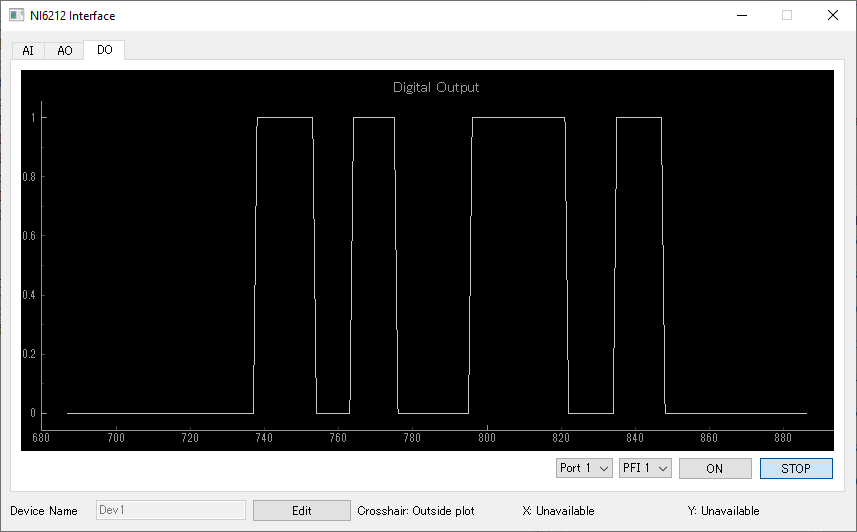
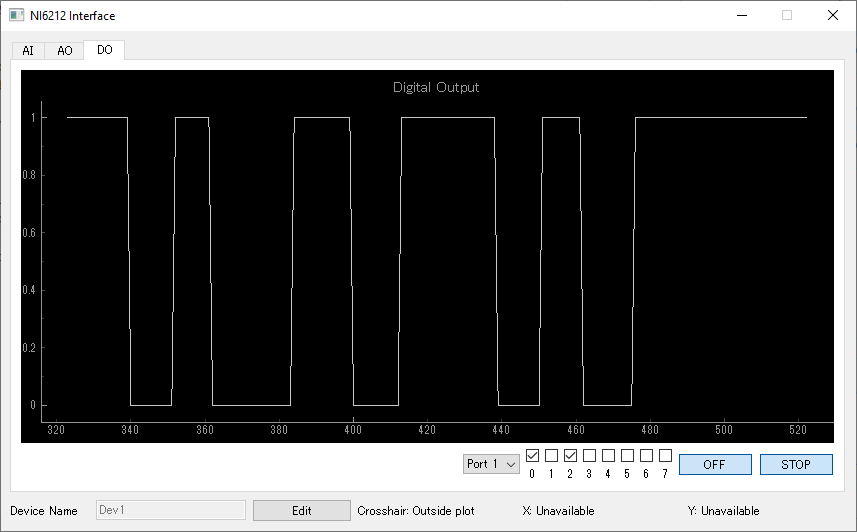
update: update README.md

Changed region(s): [[0.0303, 0.7519, 0.9708, 0.9023], [0.3944, 0.2105, 0.4247, 0.2406]]

diff --git a/README.md b/README.md
@@ -25,7 +25,7 @@ $ python App.py
 
 ## Description
 
-There are three tabs on the application: "Analog Input," "Analog Output," and "Digital Output.
+There are three tabs on the application: "Analog Input," "Analog Output," and "Digital Output".
 
 ![image](https://github.com/OIST-EQuIP/NI6212_interface/blob/main/img/AI.PNG)
 
@@ -39,8 +39,8 @@ Specifiable Output values are from -10 to 10.
 
 ![image](https://github.com/OIST-EQuIP/NI6212_interface/blob/main/img/DO.PNG)
 
-Under "Digital Output," the voltage flows to the channel selected in the drop-down list.
-Press the "START" button to start measurement, and press the "ON" button to output the signal. Press the "OFF" button to stop outputting the signal.
+In "Digital Output", voltage flows to the channel selected by the check box.
+Press the "START" button to start measurement, and press the "ON" button to output the signal. Pressing the "OFF" button stops signal output.
 
 The device name can be edited by pressing the "Edit" button.
 If the device name is different from the default value, please change it here.
